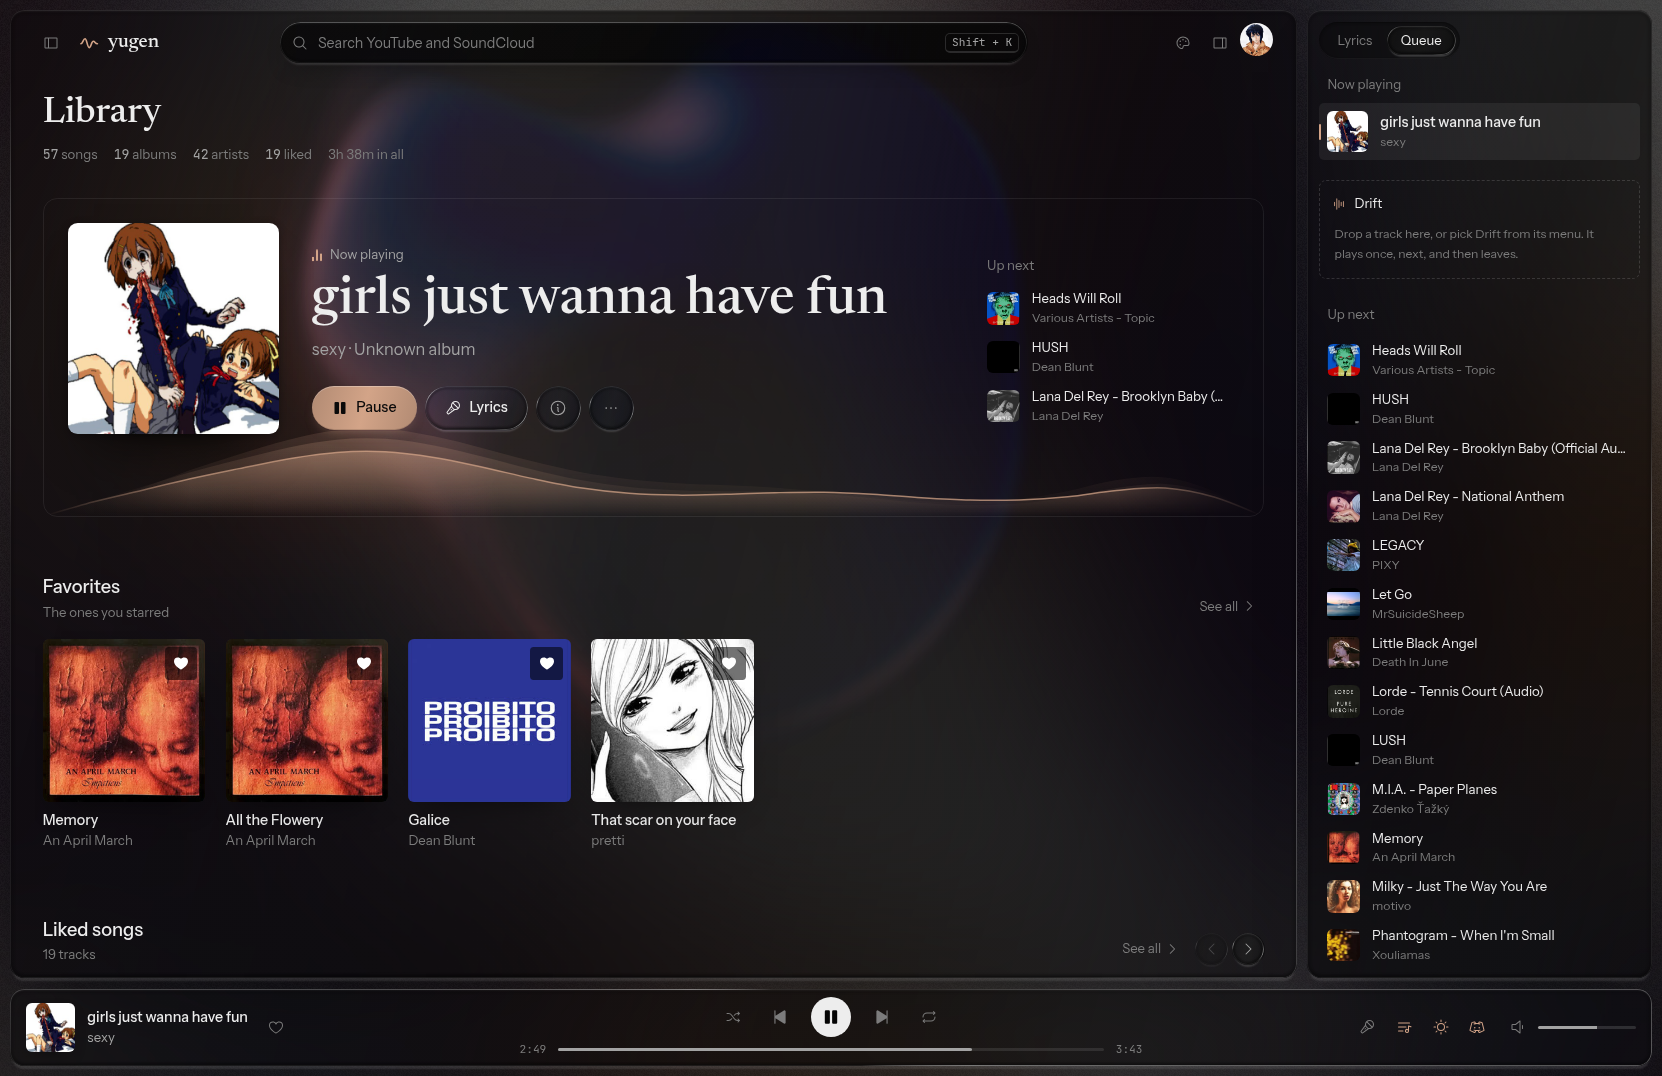
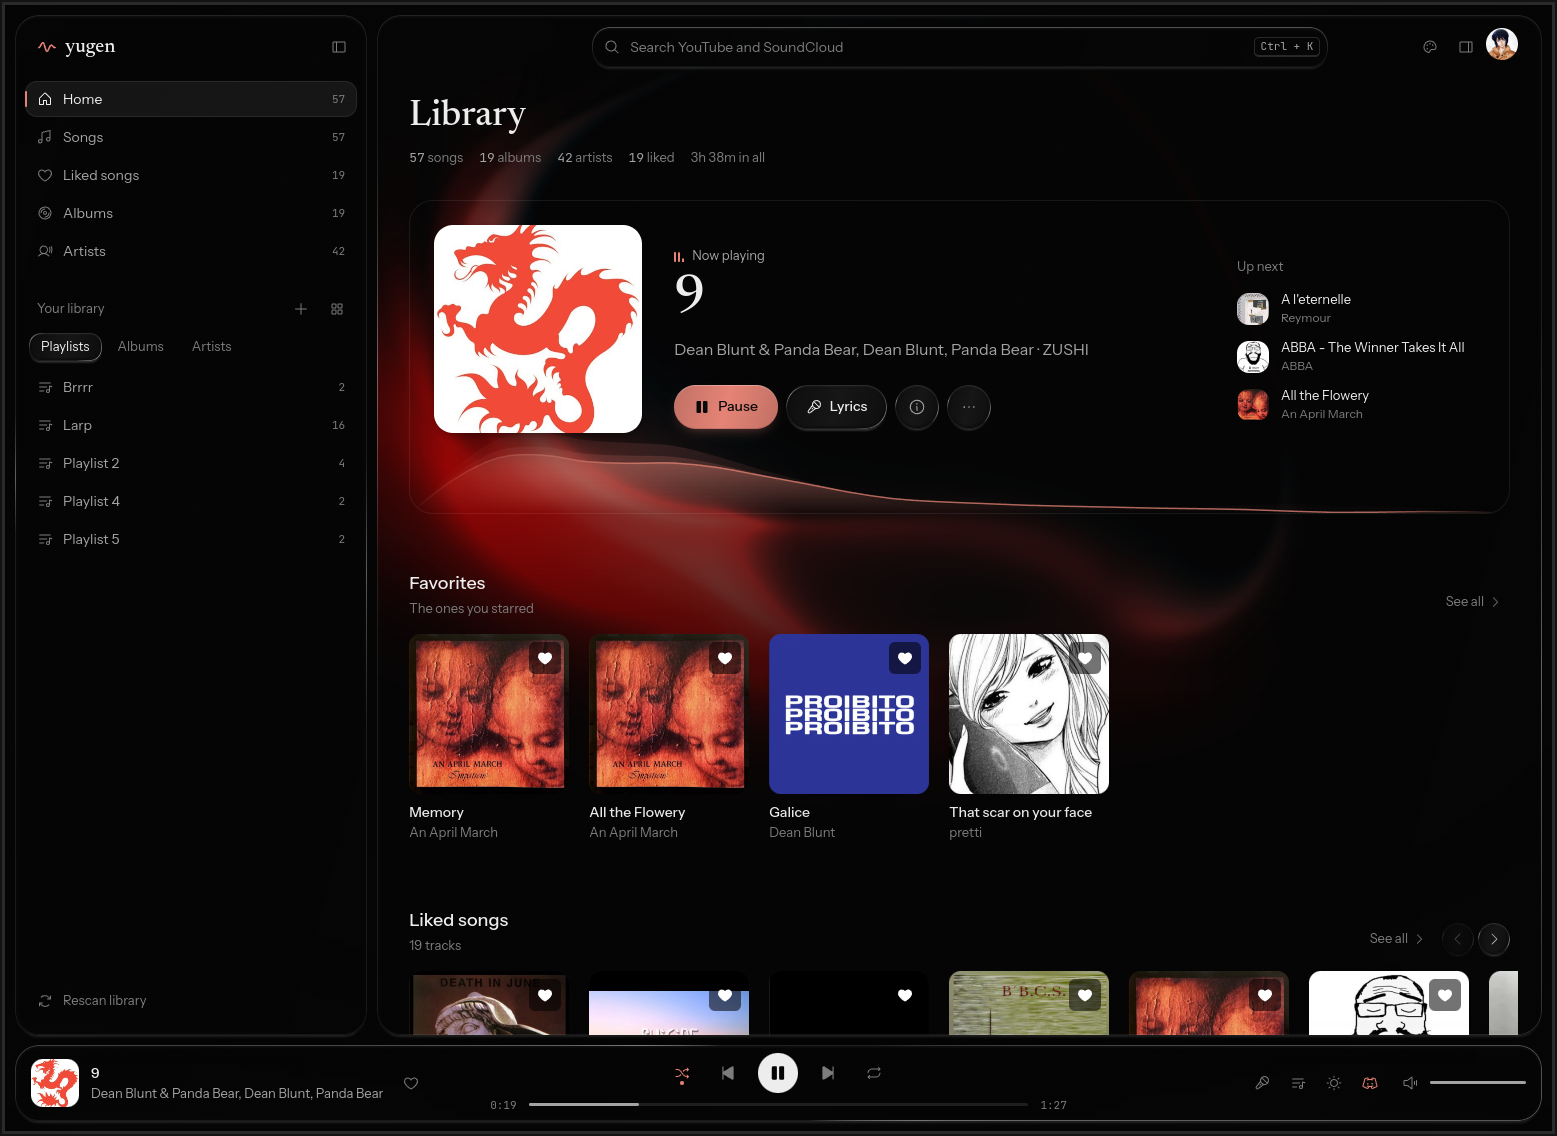
docs: the readme shows three screenshots taken in the app itself
Home, the lyrics page, and all songs with the queue beside it, taken from
the running player in place of the harness shots. settings.png and
song-details.png go.

diff --git a/README.md b/README.md
@@ -1,28 +1,19 @@
 # yugen
 
 <p align="center">
-  <img src="screenshots/home.png" width="85%" alt="the home page in Ink, a track playing, the queue in the column on the right" />
-  <br />
-  <em>home, with what is playing and the queue after it</em>
+  <img src="screenshots/home.png" width="85%" alt="the home page with a track playing, the light of its cover behind the panels" />
 </p>
 
 <p align="center">
-  <img src="screenshots/lyrics.png" width="85%" alt="the full-screen lyrics page, the record on the left and the sung line lit on the right" />
+  <img src="screenshots/lyrics.png" width="85%" alt="the full-screen lyrics page, the record on the left and the sung line lit word by word on the right" />
   <br />
   <em>the lyrics page, the words timed to the track</em>
 </p>
 
 <p align="center">
-  <img src="screenshots/songs.png" width="49%" alt="all songs as a grid of covers in Lamplight, tinted by the playing cover" />
-  <img src="screenshots/song-details.png" width="49%" alt="a track's card, open over the home page" />
+  <img src="screenshots/songs.png" width="85%" alt="all songs as a list, with the queue in the column beside it" />
   <br />
-  <em>the library as covers, and a track's card</em>
-</p>
-
-<p align="center">
-  <img src="screenshots/settings.png" width="85%" alt="settings in the Paper theme, with the palettes and the section index beside them" />
-  <br />
-  <em>settings, in Paper: palettes, glass, corners, motion</em>
+  <em>the library, and the queue after what is playing</em>
 </p>
 
 A desktop music player for Linux. Plays local mp3 files, searches and downloads
